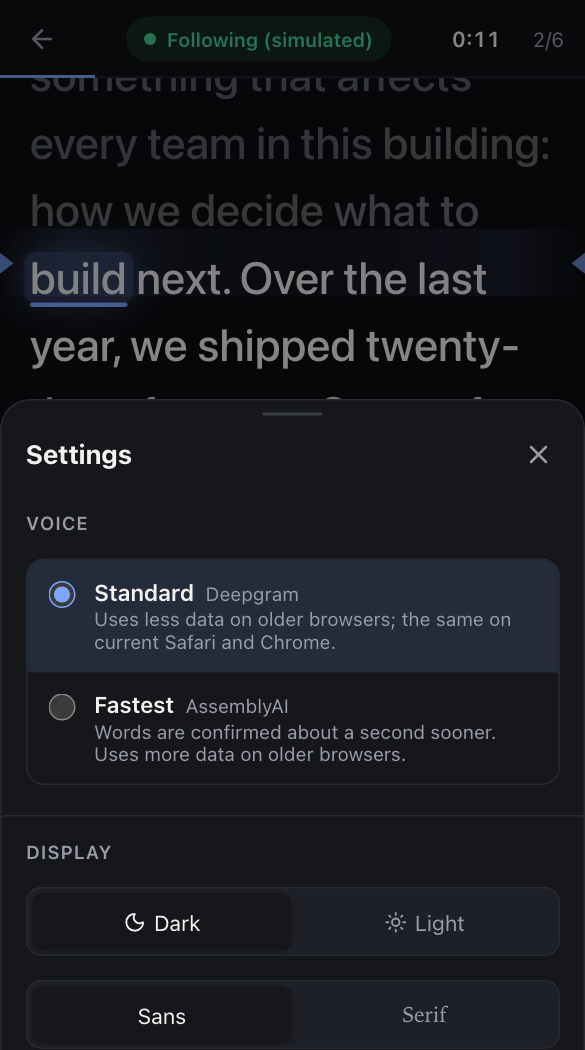
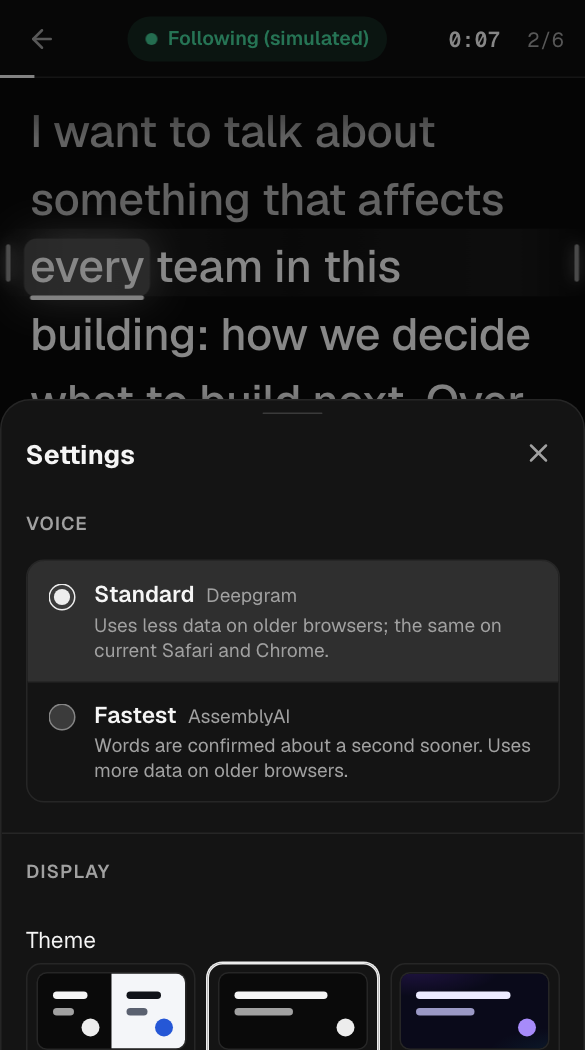
docs: animate how the matcher follows speech; refresh README visuals
- New docs/images/matcher.svg: an animated diagram generated by running the
  real matcher on a short talk (fillers ignored, "twenty three" matching
  "twenty-three", a skipped sentence caught up after five words). Follows
  light/dark mode and holds still with reduced motion.
- Retake the screenshots and following.gif in the redesigned UI, and update
  wording for the new themes and reading-line marks.
- Exclude docs/ from Docker build contexts; it never belonged in an image.

diff --git a/README.md b/README.md
@@ -11,7 +11,7 @@ stays at eye level, and the words you have already said fade out.
 
 <br />
 
-<img src="docs/images/presenter-desktop.png" alt="The presenter view following a speaker: spoken text is dimmed, the phrase being heard is a softer warm colour, and the next word is boxed and underlined on the reading line." width="860" />
+<img src="docs/images/presenter-desktop.png" alt="The presenter view following a speaker: spoken text is dimmed, the phrase being heard is tinted violet (the Cosmic Night theme), and the next word is boxed and underlined on the reading line." width="860" />
 
 <sub>The presenter view in the middle of a talk (recorded with the built-in practice mode).</sub>
 
@@ -86,7 +86,7 @@ look back down.
 <tr>
 <td width="45%" align="center" valign="top">
 
-<img src="docs/images/following.gif" width="300" alt="Animation of the presenter view on a phone: as the simulated speaker talks, the spoken words fade, the words being heard turn warm, and the boxed next word moves along the reading line." />
+<img src="docs/images/following.gif" width="300" alt="Animation of the presenter view on a phone: as the simulated speaker talks, the spoken words fade, the words being heard turn a dimmer grey, and the boxed next word moves along the reading line." />
 
 <sub>Practice mode reading the sample talk, in real time.</sub>
 
@@ -111,13 +111,13 @@ The script follows you. Tap any word to jump there yourself.
 
 ### Reading the screen
 
-| You see                 | It means                                    |
-| ----------------------- | ------------------------------------------- |
-| Faded text              | You have said this                          |
-| Warm, dimmer text       | What the app is hearing right now           |
-| Boxed, underlined word  | Your next word                              |
-| ▶ ◀ markers at the edge | The reading line. Your line stays here      |
-| Dashed underline        | Where a **Jump to …** button would take you |
+| You see                    | It means                                    |
+| -------------------------- | ------------------------------------------- |
+| Faded text                 | You have said this                          |
+| Tinted, dimmer text        | What the app is hearing right now           |
+| Boxed, underlined word     | Your next word                              |
+| Glowing marks at each edge | The reading line. Your line stays here      |
+| Dashed underline           | Where a **Jump to …** button would take you |
 
 ### Made for talks that don't go to plan
 
@@ -145,7 +145,7 @@ The script follows you. Tap any word to jump there yourself.
 **Made for the stage**
 
 - Large text. Change the size, line spacing, column width and font.
-- Dark and light themes.
+- Five themes (Graphite, Cosmic Night, Ember, Aurora and Daylight), or match your device.
 - Mirrored text for teleprompter glass.
 - Move the reading line. By default it sits near the top, close to your camera.
 - Smooth scrolling that ignores tiny moves and respects "reduce motion".
@@ -195,7 +195,7 @@ The script follows you. Tap any word to jump there yourself.
 <tr>
 <td align="center"><img src="docs/images/setup-phone.png" width="240" alt="Setup screen on a phone with the script editor and a Start presenting button." /><br /><sub>Add your script</sub></td>
 <td align="center"><img src="docs/images/presenter-phone.png" width="240" alt="Presenter view on a phone following along, with a large stop button in the bottom dock." /><br /><sub>Present hands-free</sub></td>
-<td align="center"><img src="docs/images/settings-phone.png" width="240" alt="Settings sheet on a phone with the speech service choice (Standard or Fastest) above the theme and typeface controls." /><br /><sub>Choose your speech service and look</sub></td>
+<td align="center"><img src="docs/images/settings-phone.png" width="240" alt="Settings sheet on a phone with the speech service choice (Standard or Fastest) above the theme picker." /><br /><sub>Choose your speech service and look</sub></td>
 </tr>
 </table>
 
@@ -332,12 +332,12 @@ sequenceDiagram
     You->>App: "Today I want to share…"
     App->>DG: audio, every 100 ms
     DG-->>App: guess: "today I want"
-    Note over App: Warm highlight moves ahead<br/>(can still change)
+    Note over App: Highlight moves ahead<br/>(can still change)
     DG-->>App: final: "today I want to share"
     Note over App: Words fade as spoken<br/>(locked in, never moves back)
 ```
 
-A guess can even carry the warm highlight across a skipped sentence before the final result
+A guess can even carry the highlight across a skipped sentence before the final result
 arrives, so the screen catches up sooner.
 
 </details>
@@ -346,6 +346,10 @@ arrives, so the screen catches up sooner.
 
 It compares the last ~8 words you said with the script. It allows for misheard words, extra
 words, missed words, "um"s and spoken numbers ("twenty twenty five" = "2025").
+
+<img src="docs/images/matcher.svg" width="860" alt="Animation generated from the real matcher. Words heard appear as chips. Interim words move a dashed tentative cursor through the script; a final result moves the solid confirmed cursor and dims the spoken words. The filler 'uh' is ignored, 'twenty three' matches 'twenty-three', and after a skipped sentence the cursor waits for five matching words before catching up." />
+
+<sub>Every cursor position in this animation comes from running the real matcher on these words.</sub>
 
 <details>
 <summary><b>The decision, step by step</b></summary>
